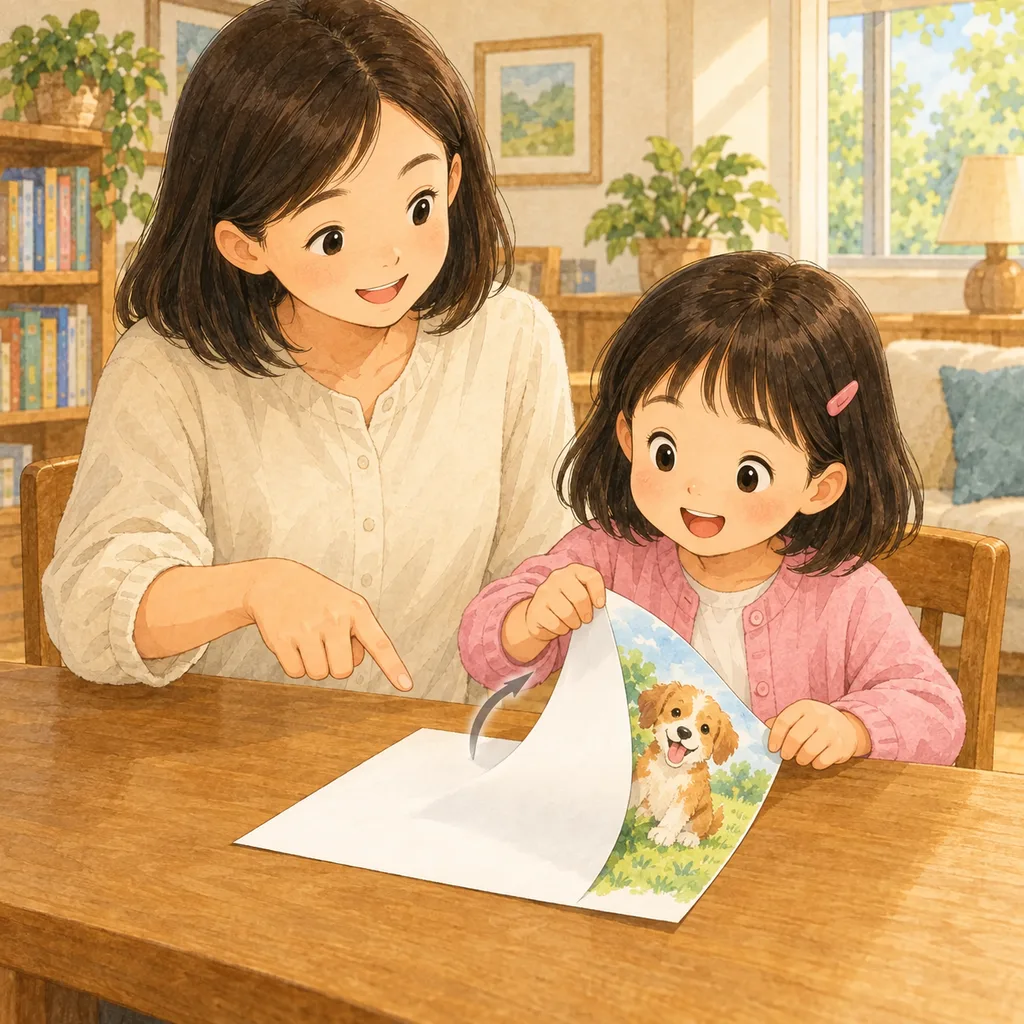
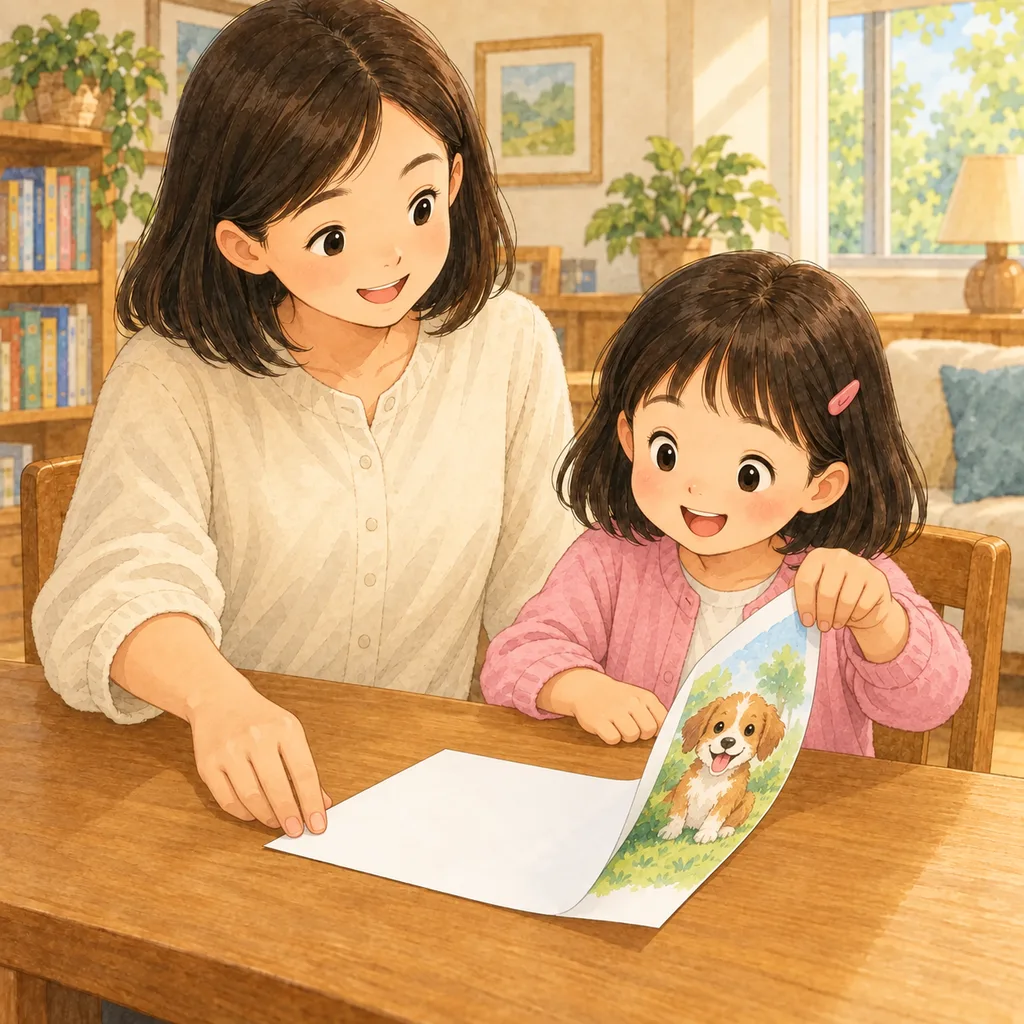
Repair L477 S04 paper structure

diff --git a/docs/PARALLEL_LESSON_REGISTRY.md b/docs/PARALLEL_LESSON_REGISTRY.md
@@ -16,7 +16,7 @@ When the teacher wants to prepare 2-3 lessons or review modules at the same time
 
 | Unit | New Character(s) / Kind | Status | Owner / Thread | Branch / Commit | Depends On | Provisional Learned Chars | Request / Packet | Assets | Notes |
 |---|---|---|---|---|---|---|---|---|---|
-| L477 | 緣 | ready-blocked-by-dependency | Production F / parallel-f | `codex/l477-complete-package` | L472:案; L473:反; L474:而; L475:且; L476:故; R057/R058 after L465 | 案、反、而、且、故 | `curriculum-workflow/lesson-requests/L477.json`; `curriculum-workflow/generated/L477-generation-packet.md`; `curriculum-workflow/drafts/L477-draft.json` | `public/assets/lessons/L477/`; `curriculum-workflow/audio-inbox/L477/` | Asset-complete package. Five 1024x1024 WebPs and ten final M4A files complete; exact-Han transcript, charTimings, style/cast/semantic, allowed-character, coverage and Stage 4 audits PASS. Immutable-ref Browser QA PASS at `92d6a9997a3c6f5f98f12f2122602a1ade743e98`: 5/5 images loaded and all 11 playback controls reached ended without media errors. Release blocked only by R057/R058 and L472-L476. |
+| L477 | 緣 | ready-blocked-by-dependency | Production F / parallel-f | `codex/l477-complete-package` | L472:案; L473:反; L474:而; L475:且; L476:故; R057/R058 after L465 | 案、反、而、且、故 | `curriculum-workflow/lesson-requests/L477.json`; `curriculum-workflow/generated/L477-generation-packet.md`; `curriculum-workflow/drafts/L477-draft.json` | `public/assets/lessons/L477/`; `curriculum-workflow/audio-inbox/L477/` | Asset-complete package. Five 1024x1024 WebPs and ten final M4A files complete; exact-Han transcript, charTimings, style/cast/semantic, allowed-character, coverage and Stage 4 audits PASS. S04 targeted image repair completed from teacher-provided paper-structure references; immutable-ref image QA pending repair commit. Release blocked only by R057/R058 and L472-L476. |
 
 ## Status Values
 
